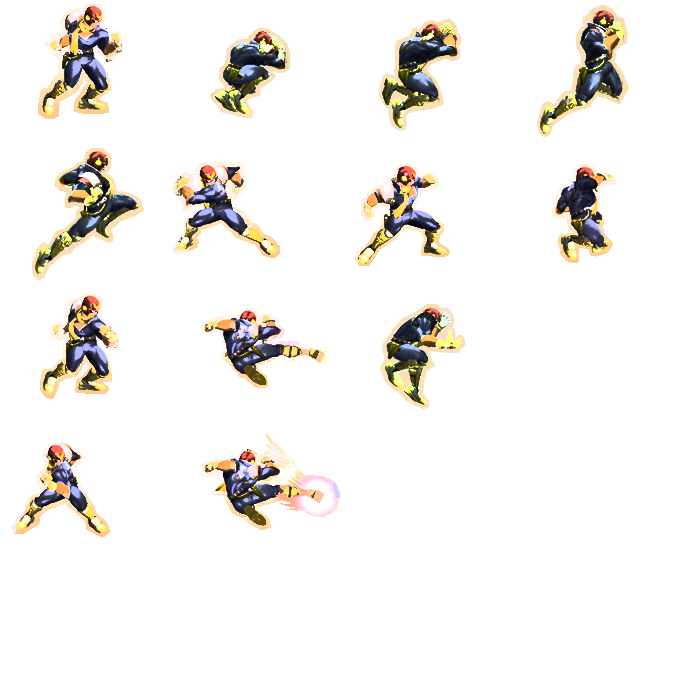
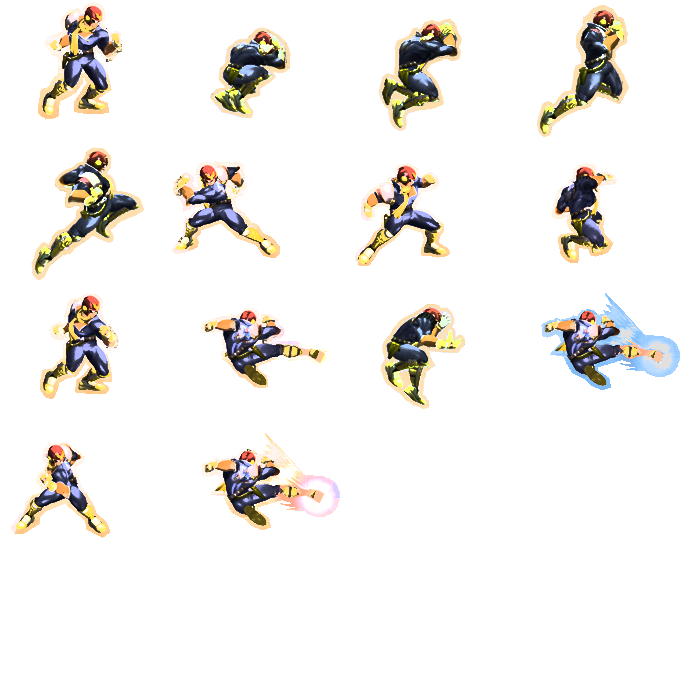
Miles lv1 AI

Changed region(s): [[0.7698, 0.4311, 1.0, 0.585]]

diff --git a/KneeOfJustice/Scripts/states/gameplay.ts b/KneeOfJustice/Scripts/states/gameplay.ts
@@ -151,6 +151,7 @@ module states {
 
                 var shootCount = 0;
 
+                
                 for (var bullets = 21; bullets >= 0; bullets--) {
                     if (this.ringBullets[bullets].active == false) {
                         this.ringBullets[bullets].active = true;
@@ -164,10 +165,10 @@ module states {
 
                     //Only Shoot 1 Bullet
                     if (shootCount == 1) {
-                        console.log("BREAK");
+                        //console.log("BREAK");
                         break;
                     }
-                    console.log("shoot: " + shootCount);
+                    //console.log("shoot: " + shootCount);
                 }
                 
                 milesState = "PewCD";
@@ -222,49 +223,29 @@ module states {
                 gamePlay.falcon.gotoAndPlay("KneeToKick");
                 kneeDuration = -1;
             }
-
-            if (kneeDuration == -1 && clickDelay == 0) {
-                //console.log("KNEE IS READY");
+            //Blue Falcon
+            if (kneeDuration == -1 && clickDelay == 0 && gamePlay.falcon.currentFrame == 11) {
+                gamePlay.falcon.gotoAndPlay("FalconKneeReady");
             }
-
             //Delay Clicks > Kill Spam
             if (clickDelay > 0) {
                 clickDelay--;
             }
             
-
+            //Stage 2 Start
+            if (milesState == "Hit" && gamePlay.miles.currentFrame == 6){
+                console.log("STAGE 2");
+            }
 
 
 
             //Collision Stuff
-            /*
-            var rect1 = { x: 5, y: 5, width: 50, height: 50 }
-            var rect2 = { x: 20, y: 10, width: 10, height: 10 }
 
-            if (rect1.x < rect2.x + rect2.width &&
-                rect1.x + rect1.width > rect2.x &&
-                rect1.y < rect2.y + rect2.height &&
-                rect1.height + rect1.y > rect2.y) {
-                // collision detected!
-            }
-
-            // filling in the values =>
-
-            if (5 < 30 &&
-                55 > 20 &&
-                5 < 20 &&
-                55 > 10) {
-                // collision detected!
-            }
-            */
-
-            
-
-            
+            //Bullets
             for (var bullets = 21; bullets >= 0; bullets--) {
                 this.ringBullets[bullets].update();
 
-                //Falcon and Ring
+                //Falcon Kick and Ring
                 if (gamePlay.falcon.hitX < this.ringBullets[bullets].hitX + this.ringBullets[bullets].hitW &&
                     gamePlay.falcon.hitX + gamePlay.falcon.hitW > this.ringBullets[bullets].hitX &&
                     gamePlay.falcon.hitY < this.ringBullets[bullets].hitY + this.ringBullets[bullets].hitH &&
@@ -272,13 +253,37 @@ module states {
                     falconState == "Kick"
                     )
                 {
-                    console.log("GET HIT");
                     falconState = "Hit";
                     this.falcon.gotoAndPlay("FalconKnee1");
                     recoveryDelay = 20;
                 }
+
+                //Falcon Knee and Ring
+                if (gamePlay.falcon.hitX < this.ringBullets[bullets].hitX + this.ringBullets[bullets].hitW &&
+                    gamePlay.falcon.hitX + gamePlay.falcon.hitW > this.ringBullets[bullets].hitX &&
+                    gamePlay.falcon.hitY < this.ringBullets[bullets].hitY + this.ringBullets[bullets].hitH &&
+                    gamePlay.falcon.hitH + gamePlay.falcon.hitY > this.ringBullets[bullets].hitY &&
+                    falconState == "Knee"
+                    ) {
+                    //Ring Reflected
+                    this.ringBullets[bullets].reflect = true;
+                }
+
+                //Miles and Ring
+                if (gamePlay.miles.hitX < this.ringBullets[bullets].hitX + this.ringBullets[bullets].hitW &&
+                    gamePlay.miles.hitX + gamePlay.miles.hitW > this.ringBullets[bullets].hitX &&
+                    gamePlay.miles.hitY < this.ringBullets[bullets].hitY + this.ringBullets[bullets].hitH &&
+                    gamePlay.miles.hitH + gamePlay.miles.hitY > this.ringBullets[bullets].hitY &&
+                    this.ringBullets[bullets].reflect && milesState != "Hit"
+                    ) {
+                    //Miles got Ringed
+                    milesState = "Hit";
+                    gamePlay.miles.gotoAndPlay("Kneed1");
+                }
+
             }
             
+            //Falcon Recovery
             if (recoveryDelay > 0) {
                 recoveryDelay--;
             }

diff --git a/KneeOfJustice/Scripts/states/gameplay.js b/KneeOfJustice/Scripts/states/gameplay.js
@@ -106,10 +106,8 @@ var states;
                     }
                     //Only Shoot 1 Bullet
                     if (shootCount == 1) {
-                        console.log("BREAK");
                         break;
                     }
-                    console.log("shoot: " + shootCount);
                 }
                 milesState = "PewCD";
             }
@@ -149,22 +147,39 @@ var states;
                 gamePlay.falcon.gotoAndPlay("KneeToKick");
                 kneeDuration = -1;
             }
-            if (kneeDuration == -1 && clickDelay == 0) {
+            //Blue Falcon
+            if (kneeDuration == -1 && clickDelay == 0 && gamePlay.falcon.currentFrame == 11) {
+                gamePlay.falcon.gotoAndPlay("FalconKneeReady");
             }
             //Delay Clicks > Kill Spam
             if (clickDelay > 0) {
                 clickDelay--;
             }
+            //Stage 2 Start
+            if (milesState == "Hit" && gamePlay.miles.currentFrame == 6) {
+                console.log("STAGE 2");
+            }
             for (var bullets = 21; bullets >= 0; bullets--) {
                 this.ringBullets[bullets].update();
-                //Falcon and Ring
+                //Falcon Kick and Ring
                 if (gamePlay.falcon.hitX < this.ringBullets[bullets].hitX + this.ringBullets[bullets].hitW && gamePlay.falcon.hitX + gamePlay.falcon.hitW > this.ringBullets[bullets].hitX && gamePlay.falcon.hitY < this.ringBullets[bullets].hitY + this.ringBullets[bullets].hitH && gamePlay.falcon.hitH + gamePlay.falcon.hitY > this.ringBullets[bullets].hitY && falconState == "Kick") {
-                    console.log("GET HIT");
                     falconState = "Hit";
                     this.falcon.gotoAndPlay("FalconKnee1");
                     recoveryDelay = 20;
                 }
+                //Falcon Knee and Ring
+                if (gamePlay.falcon.hitX < this.ringBullets[bullets].hitX + this.ringBullets[bullets].hitW && gamePlay.falcon.hitX + gamePlay.falcon.hitW > this.ringBullets[bullets].hitX && gamePlay.falcon.hitY < this.ringBullets[bullets].hitY + this.ringBullets[bullets].hitH && gamePlay.falcon.hitH + gamePlay.falcon.hitY > this.ringBullets[bullets].hitY && falconState == "Knee") {
+                    //Ring Reflected
+                    this.ringBullets[bullets].reflect = true;
+                }
+                //Miles and Ring
+                if (gamePlay.miles.hitX < this.ringBullets[bullets].hitX + this.ringBullets[bullets].hitW && gamePlay.miles.hitX + gamePlay.miles.hitW > this.ringBullets[bullets].hitX && gamePlay.miles.hitY < this.ringBullets[bullets].hitY + this.ringBullets[bullets].hitH && gamePlay.miles.hitH + gamePlay.miles.hitY > this.ringBullets[bullets].hitY && this.ringBullets[bullets].reflect && milesState != "Hit") {
+                    //Miles got Ringed
+                    milesState = "Hit";
+                    gamePlay.miles.gotoAndPlay("Kneed1");
+                }
             }
+            //Falcon Recovery
             if (recoveryDelay > 0) {
                 recoveryDelay--;
             }

diff --git a/KneeOfJustice/Scripts/game.js b/KneeOfJustice/Scripts/game.js
@@ -25,6 +25,7 @@ var assetLoader;
 var stats = new Stats();
 var currentScore = 0;
 var highScore = 0;
+//Falcon Stuff
 var falconAtlas;
 var falconState;
 //Start
@@ -34,6 +35,8 @@ var falconState;
 var clickDelay = 0;
 var kneeDuration = -1;
 var recoveryDelay = -1;
+var level = 0;
+//Miles Stuff
 var milesAtlas;
 var milesState;
 //Start
@@ -93,7 +96,8 @@ var fAtlas = {
         [512, 142, 168, 138],
         [172, 282, 168, 138],
         [172, 422, 168, 138],
-        [342, 282, 168, 138]
+        [342, 282, 168, 138],
+        [512, 282, 168, 138]
     ],
     "animations": {
         "FalconStand": [0],
@@ -109,6 +113,7 @@ var fAtlas = {
         "FalconKick6": [10],
         "FalconKick7": [11],
         "FalconKnee1": [12],
+        "FalconKneeReady": [13],
         "FalconKick": {
             frames: [0, 5, 6, 7, 8, 9, 10, 11],
             next: "FalconKick7",
@@ -155,9 +160,14 @@ var mAtlas = {
             next: "Kneed2"
         },
         "Kneed2": {
-            frames: [5, 8],
+            frames: [5, 5, 8],
             speed: 0.025,
-            next: "MilesRestart"
+            next: "KneedToNeutral"
+        },
+        "KneedToNeutral": {
+            frames: [8, 6, 6],
+            speed: 0.025,
+            next: "MilesNeutral"
         }
     }
 };

diff --git a/KneeOfJustice/Scripts/game.ts b/KneeOfJustice/Scripts/game.ts
@@ -33,8 +33,7 @@ var stats: Stats = new Stats();
 var currentScore = 0;
 var highScore = 0;
 
-
-
+//Falcon Stuff
 var falconAtlas: createjs.SpriteSheet;
 var falconState;
 //Start
@@ -44,9 +43,10 @@ var falconState;
 var clickDelay = 0;
 var kneeDuration = -1;
 var recoveryDelay = -1;
+var level = 0;
 
 
-
+//Miles Stuff
 var milesAtlas: createjs.SpriteSheet;
 var milesState;
 //Start
@@ -116,7 +116,8 @@ var fAtlas = {
         [512, 142, 168, 138],
         [172, 282, 168, 138],
         [172, 422, 168, 138],
-        [342, 282, 168, 138]
+        [342, 282, 168, 138],
+        [512, 282, 168, 138]
     ],
     "animations": {
 
@@ -133,6 +134,7 @@ var fAtlas = {
         "FalconKick6": [10],
         "FalconKick7": [11],
         "FalconKnee1": [12],
+        "FalconKneeReady": [13],
 
         "FalconKick": {
             frames: [0, 5, 6, 7, 8, 9, 10, 11],
@@ -187,9 +189,15 @@ var mAtlas = {
         },
 
         "Kneed2": {
-            frames: [5, 8],
+            frames: [5, 5, 8],
             speed: 0.025,
-            next: "MilesRestart"
+            next: "KneedToNeutral"
+        },
+
+        "KneedToNeutral": {
+            frames: [8, 6, 6],
+            speed: 0.025,
+            next: "MilesNeutral"
         }
     }
 }

diff --git a/KneeOfJustice/Scripts/objects/ringBullet.js b/KneeOfJustice/Scripts/objects/ringBullet.js
@@ -13,6 +13,7 @@ var objects;
         function RingBullet() {
             _super.call(this, assetLoader.getResult("ringBullet"));
             this.active = false;
+            this.reflect = false;
             this.ySpeed = 0;
             this.state = "";
             this.width = this.getBounds().width;
@@ -30,9 +31,12 @@ var objects;
             //Update Hitbox
             this.hitX = this.x - 27;
             this.hitY = this.y - 27;
-            if (this.active) {
+            if (this.active && !this.reflect) {
                 this.x -= 10;
                 this.y += this.ySpeed;
+            }
+            if (this.active && this.reflect) {
+                this.x += 10;
             }
             if (this.x < -50) {
                 this.active = false;

diff --git a/KneeOfJustice/Scripts/objects/miles.ts b/KneeOfJustice/Scripts/objects/miles.ts
@@ -5,6 +5,10 @@ module objects {
         public width: number;
         public height: number;
         public isColliding: boolean = false;
+        public hitX;
+        public hitY;
+        public hitW;
+        public hitH;
 
         // CONSTRUCTOR
         constructor() {
@@ -20,12 +24,16 @@ module objects {
             this.y = this.regY + 100;
 
             milesState = "Start";
+
+            this.hitW = 250;
+            this.hitH = 350;
         }
 
         // PUBLIC METHODS
         public update() {
-
-            //
+            //Update Hitbox
+            this.hitX = this.x - 125 + 91;
+            this.hitY = this.y - 175 + 25;
         }
 
     }

diff --git a/KneeOfJustice/Scripts/objects/ringBullet.ts b/KneeOfJustice/Scripts/objects/ringBullet.ts
@@ -6,6 +6,7 @@ module objects {
         public height: number;
 
         public active = false;
+        public reflect = false;
         public ySpeed = 0;
         public state = "";
 
@@ -37,10 +38,14 @@ module objects {
             this.hitX = this.x - 27;
             this.hitY = this.y - 27;
 
-            if (this.active) {
+            if (this.active && !this.reflect) {
                 this.x -= 10;
                 this.y += this.ySpeed;
             }
+            if (this.active && this.reflect) {
+                this.x += 10;
+            }
+
 
             if (this.x < -50) {
                 this.active = false;

diff --git a/KneeOfJustice/Scripts/objects/Miles.js b/KneeOfJustice/Scripts/objects/Miles.js
@@ -21,10 +21,14 @@ var objects;
             this.x = this.regX + 842;
             this.y = this.regY + 100;
             milesState = "Start";
+            this.hitW = 250;
+            this.hitH = 350;
         }
         // PUBLIC METHODS
         Miles.prototype.update = function () {
-            //
+            //Update Hitbox
+            this.hitX = this.x - 125 + 91;
+            this.hitY = this.y - 175 + 25;
         };
         return Miles;
     })(createjs.Sprite);

diff --git a/KneeOfJustice/Scripts/objects/falcon.js b/KneeOfJustice/Scripts/objects/falcon.js
@@ -23,6 +23,7 @@ var objects;
             this.x = 100;
             this.y = 250;
             falconState = "Start";
+            level = 1;
             this.hitW = 125;
             this.hitH = 70;
         }

diff --git a/KneeOfJustice/Scripts/objects/falcon.ts b/KneeOfJustice/Scripts/objects/falcon.ts
@@ -27,6 +27,7 @@ module objects {
             this.y = 250;
 
             falconState = "Start";
+            level = 1;
 
             this.hitW = 125;
             this.hitH = 70;
